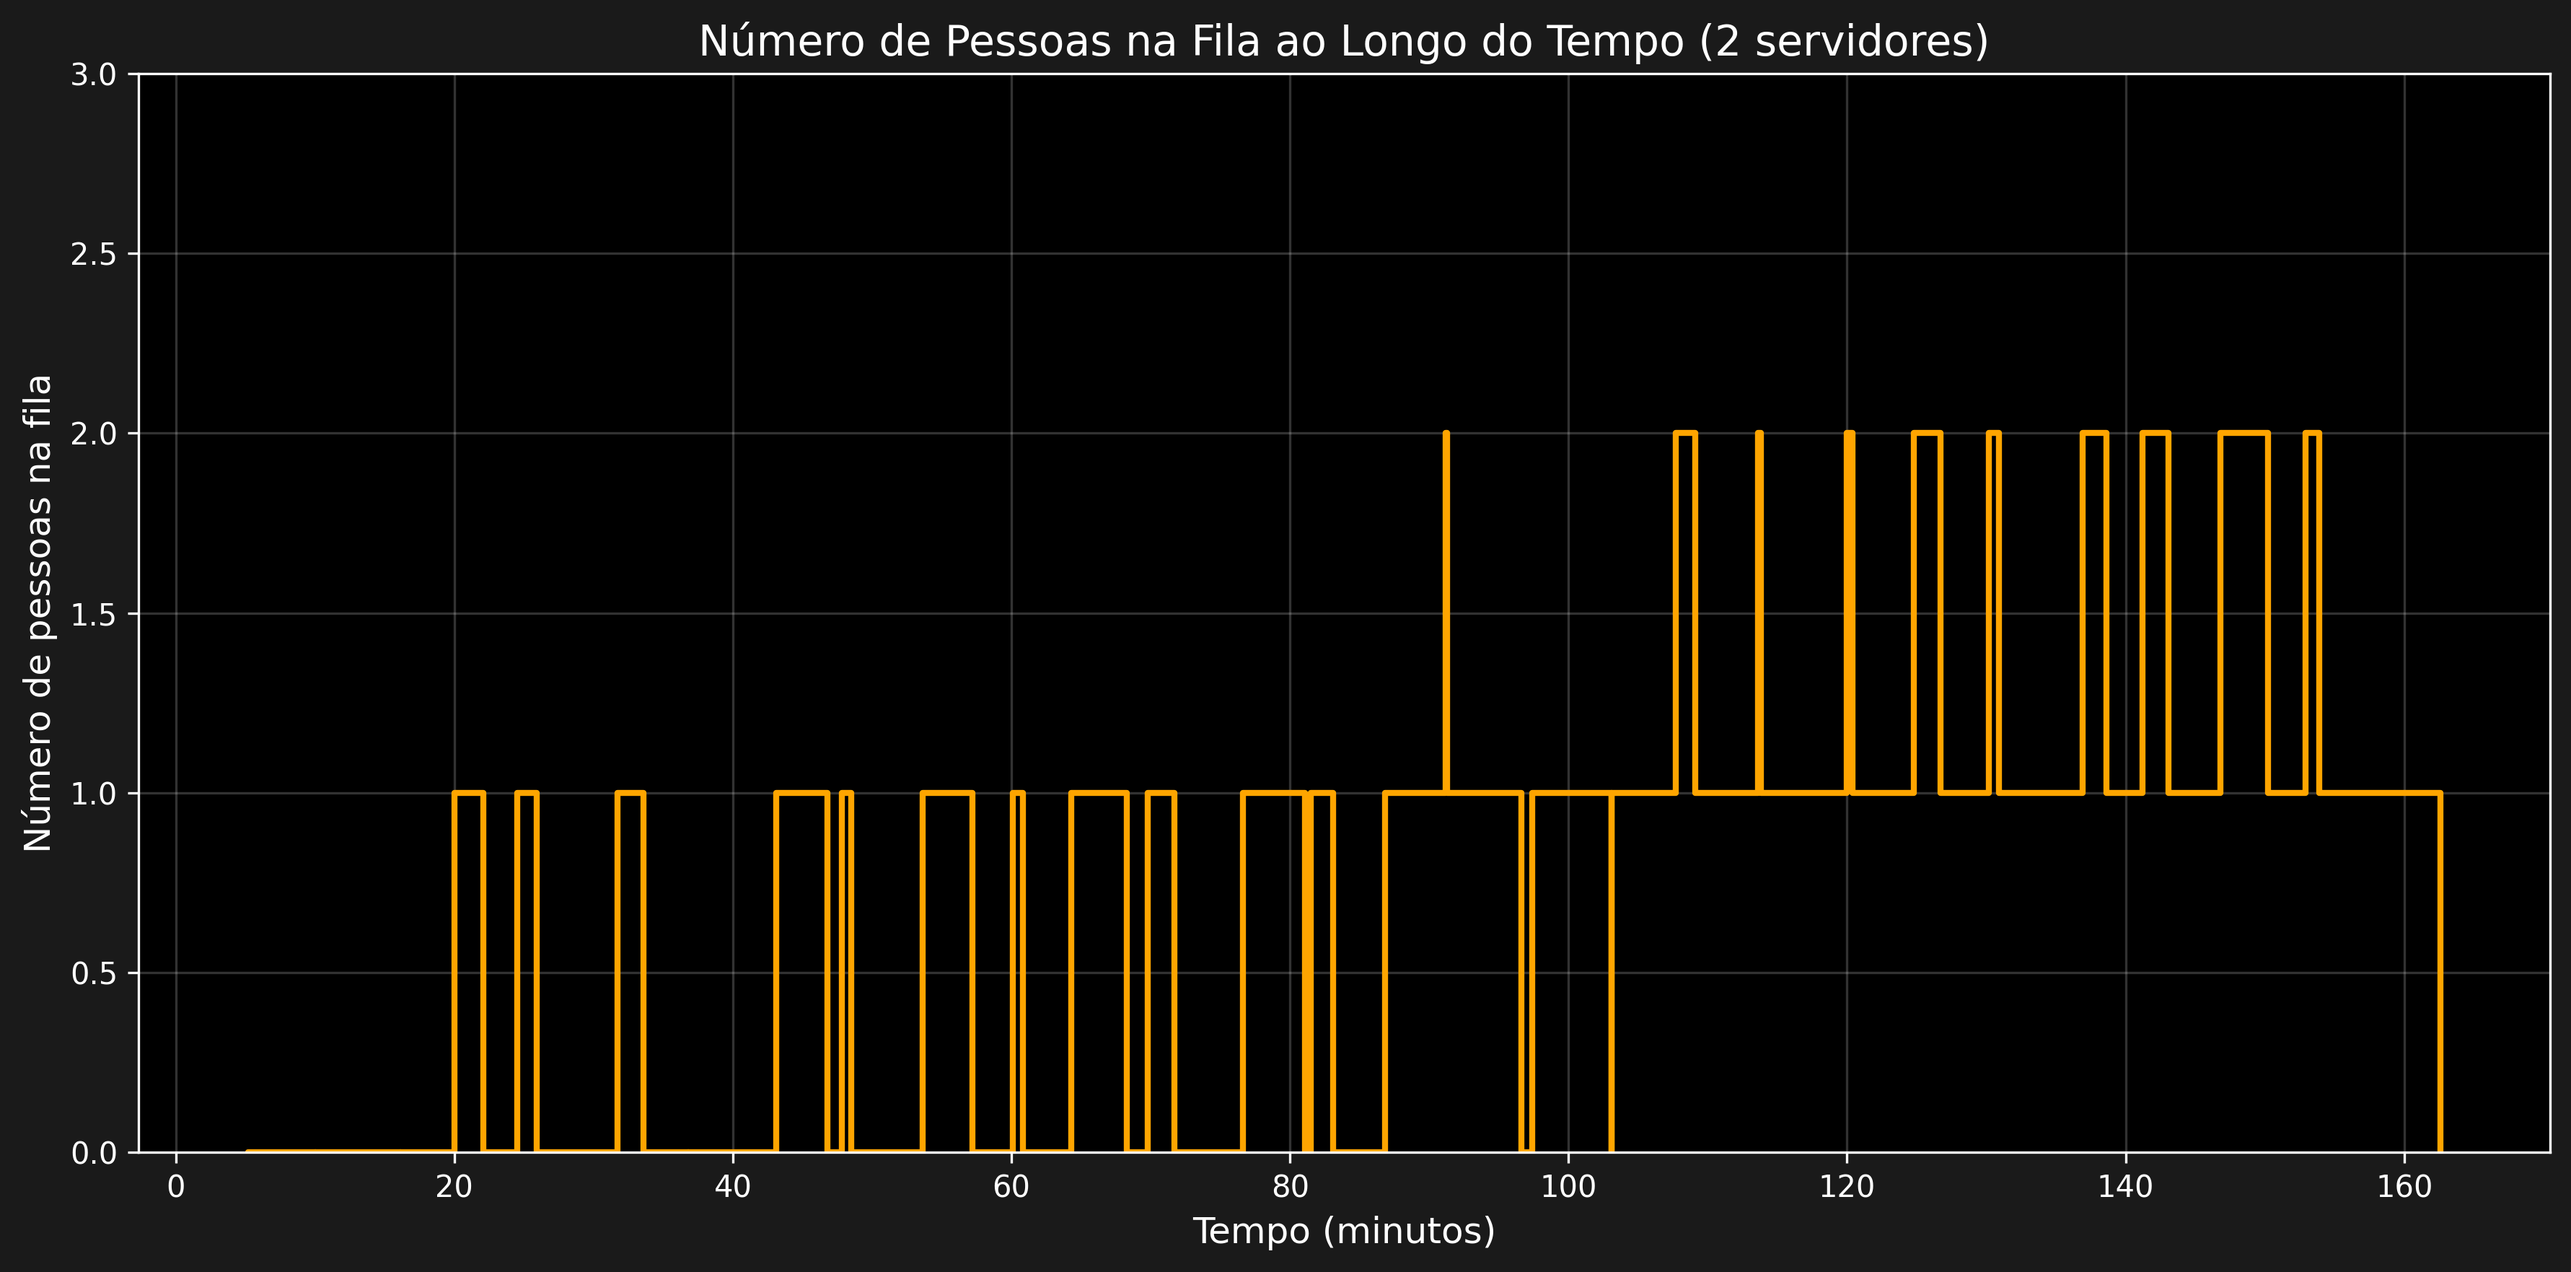
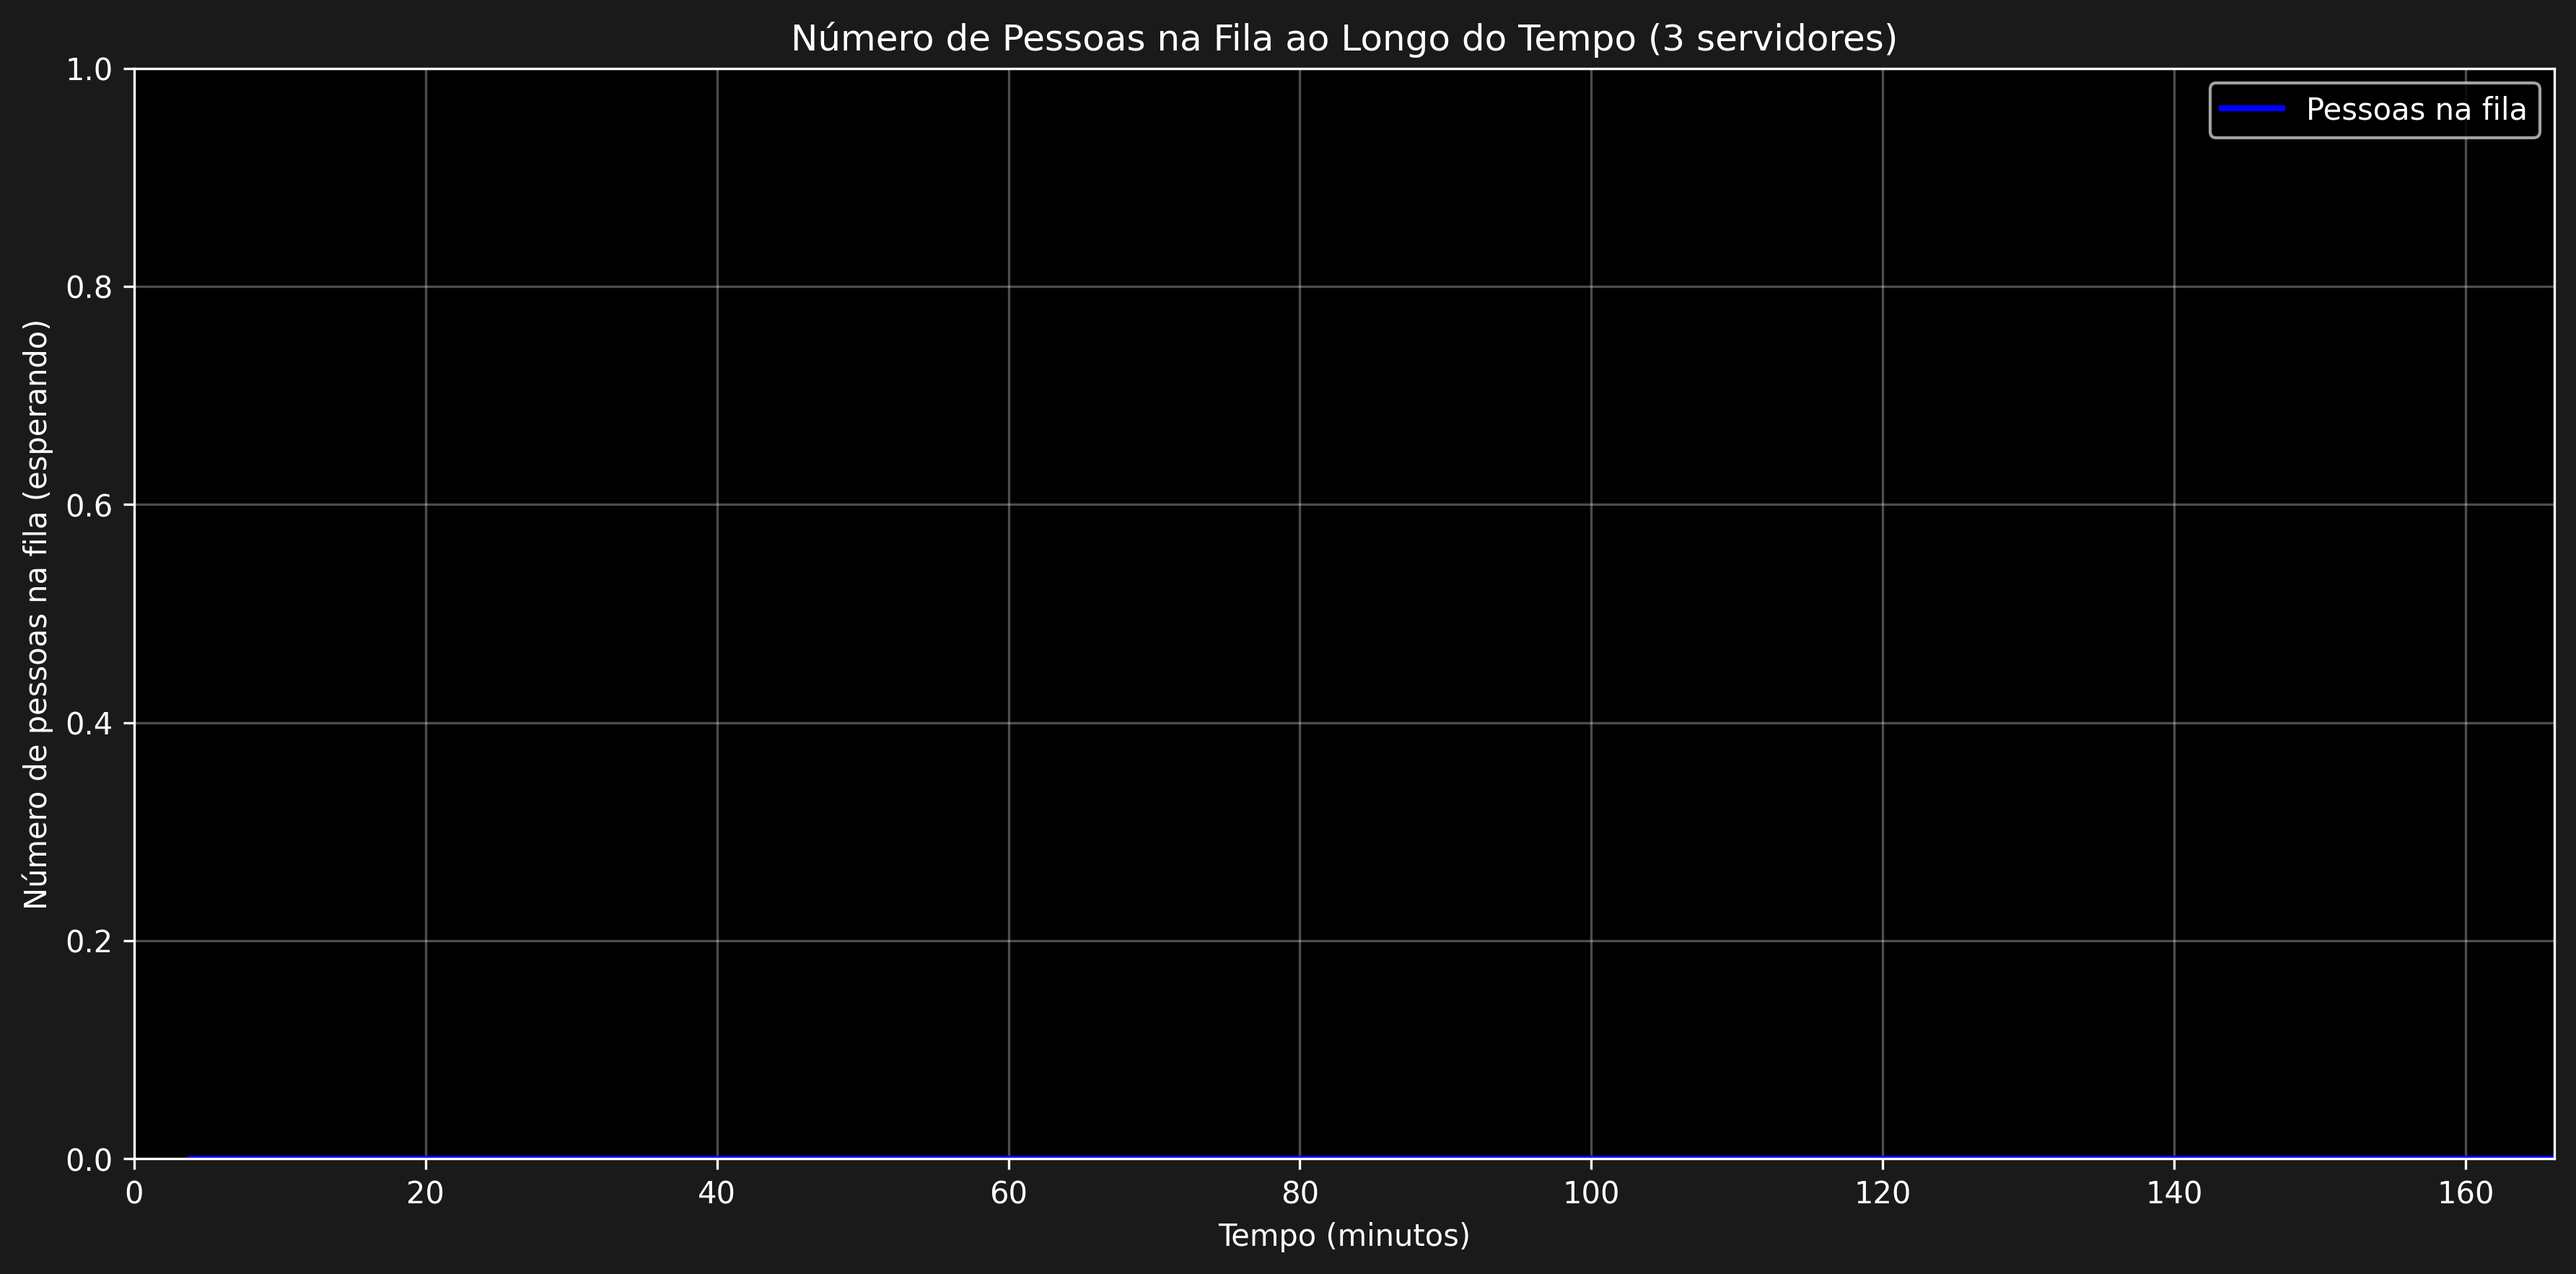
Correção do Primeiro Gráfico

diff --git a/templates/index.html b/templates/index.html
@@ -16,7 +16,7 @@
             <h2>Configurações da Simulação</h2>            <div class="config-input">
                 <div class="input-group">
                     <label for="numServidores">Número de Servidores:</label>
-                    <input type="number" id="numServidores" min="1" value="3">
+                    <input type="number" id="numServidores" min="1" value="2">
                     <label for="nivelConfianca">Nível de Confiança:</label>
                     <select id="nivelConfianca" class="select-styled">
                         <option value="0.90">90%</option>

diff --git a/static/js/main.js b/static/js/main.js
@@ -88,7 +88,7 @@ function formatarEstatisticas(estatisticas) {
     
     // Ordem específica dos títulos
     const titulosOrdenados = [
-        'Tempo entre Chegadas:',
+        'Tempo de Chegada:',
         'Tempo de Atendimento:'
     ];
     
@@ -113,7 +113,7 @@ function formatarEstatisticas(estatisticas) {
 function formatarIntervalos(intervalos) {
     // Ordem específica dos intervalos
     const titulosOrdenados = [
-        'Tempo entre Chegadas:',
+        'Tempo de Chegada:',
         'Tempo de Atendimento:'
     ];
     

diff --git a/src/models/simulacao_filas.py b/src/models/simulacao_filas.py
@@ -10,7 +10,7 @@ class SimuladorFilas:
     def __init__(self, num_servidores, arquivo_dados):
         self.num_servidores = num_servidores
         self.dados = pd.read_csv(arquivo_dados, dtype={
-            'tempo_entre_chegadas': float,
+            'tempo_de_chegada': float,
             'tempo_atendimento': float
         })
         self.fila = deque()
@@ -27,48 +27,60 @@ class SimuladorFilas:
         
     def simular(self):
         # Calcular tempos reais de chegada
-        self.dados['tempo_chegada'] = self.dados['tempo_entre_chegadas'].cumsum()
+        self.dados['tempo_chegada'] = self.dados['tempo_de_chegada'].cumsum()
         
         # Inicializar variáveis
+        n = len(self.dados)
         self.servidores = [0] * self.num_servidores
         self.historico_espera = []
         self.historico_ocupacao = []
-        self.fila_tempo = []  # Lista para eventos da fila [(tempo, mudança)]
+        tempo_total_espera = 0
         
-        for idx, cliente in self.dados.iterrows():
-            chegada = cliente['tempo_chegada']
-            atendimento = cliente['tempo_atendimento']
-            
-            # Adicionar evento de chegada na fila
-            self.fila_tempo.append((chegada, +1))
+        # Arrays para armazenar os tempos
+        self.inicio_atendimento = np.zeros(n)
+        self.fim_atendimento = np.zeros(n)
+        self.tempos_chegada = self.dados['tempo_chegada'].values
+        self.tempos_atendimento = self.dados['tempo_atendimento'].values
+        fim_servidores = [0] * self.num_servidores
+        
+        # Lista para armazenar eventos (chegada: +1, saída: -1)
+        eventos = []
+        
+        for i in range(n):
+            chegada = self.tempos_chegada[i]
+            duracao = self.tempos_atendimento[i]
             
             # Encontrar servidor que ficará livre primeiro
-            servidor_idx = min(range(self.num_servidores), key=lambda x: self.servidores[x])
-            inicio_atendimento = max(chegada, self.servidores[servidor_idx])
-            fim_atendimento = inicio_atendimento + atendimento
+            servidor_idx = min(range(self.num_servidores), key=lambda x: fim_servidores[x])
+            inicio = max(chegada, fim_servidores[servidor_idx])
+            fim = inicio + duracao
             
-            # Adicionar evento de saída da fila
-            self.fila_tempo.append((inicio_atendimento, -1))
+            # Registrar eventos de chegada e saída
+            eventos.append((chegada, 1))           # Chegada
+            eventos.append((inicio + duracao, -1)) # Saída
             
-            # Calcular tempo de espera
-            self.historico_espera.append(inicio_atendimento - chegada)
+            # Armazenar tempos
+            self.inicio_atendimento[i] = inicio
+            self.fim_atendimento[i] = fim
+            fim_servidores[servidor_idx] = fim
             
-            # Atualizar tempo de liberação do servidor
-            self.servidores[servidor_idx] = fim_atendimento
-            
-            # Registrar ocupação
-            self.historico_ocupacao.append(sum([1 for s in self.servidores if s > chegada]))
-
-        # Ordenar eventos da fila
-        self.fila_tempo.sort()
-        # Calcular tamanho da fila acumulado
-        tempos, eventos = zip(*self.fila_tempo)
-        self.historico_tempos = tempos
-        self.historico_fila = []
-        qtd = 0
-        for e in eventos:
-            qtd += e
-            self.historico_fila.append(qtd)
+            # Calcular e acumular tempo de espera
+            tempo_espera = inicio - chegada
+            tempo_total_espera += tempo_espera
+            self.historico_espera.append(tempo_total_espera)
+        
+        # Ordenar eventos por tempo
+        eventos.sort()
+        
+        # Criar timeline e calcular tamanho da fila
+        self.timeline = []
+        self.fila = []
+        pessoas_na_fila = 0
+        
+        for tempo, mudanca in eventos:
+            self.timeline.append(tempo)
+            pessoas_na_fila += mudanca
+            self.fila.append(max(0, pessoas_na_fila - self.num_servidores))
 
     def _calcular_p0(self, lambda_taxa, mu_taxa):
         rho = lambda_taxa / (self.num_servidores * mu_taxa)
@@ -89,7 +101,7 @@ class SimuladorFilas:
         return (rho * p_espera) / (1 - rho)
 
     def calcular_metricas(self):
-        lambda_taxa = 1 / self.dados['tempo_entre_chegadas'].mean()
+        lambda_taxa = 1 / self.dados['tempo_de_chegada'].mean()
         mu_taxa = 1 / self.dados['tempo_atendimento'].mean()
         rho = lambda_taxa / (self.num_servidores * mu_taxa)
 
@@ -111,37 +123,40 @@ class SimuladorFilas:
         }
     
     def gerar_graficos(self):
-        if not self.historico_fila:
+        if not hasattr(self, 'timeline'):
             self.simular()
 
         plt.style.use('dark_background')
         n = len(self.dados)
 
-        # Primeiro gráfico - Tempo de espera
+        # Primeiro gráfico - Tempo de espera por cliente
+        tempos_espera_ordenados = sorted(self.historico_espera)
         plt.figure(figsize=(12, 6))
-        plt.bar(range(1, n+1), self.historico_espera, color='skyblue')
-        plt.title('Tempo de Espera por Cliente', fontsize=14, color='white')
-        plt.xlabel('Cliente', fontsize=12, color='white')
-        plt.ylabel('Tempo de Espera (minutos)', fontsize=12, color='white')
-        plt.grid(True, alpha=0.2)
+        plt.bar(range(1, n+1), tempos_espera_ordenados, color='orange', edgecolor='black')
+        plt.title("Tempo de Espera por Cliente")
+        plt.xlabel("Cliente")
+        plt.ylabel("Tempo de Espera (minutos)")
         plt.xticks(range(1, n+1))
-        plt.ylim(bottom=0)
+        plt.grid(axis='y', linestyle='--', alpha=0.6)
         plt.tight_layout()
         plt.savefig('assets/tempo_espera.png', dpi=300, facecolor='#1a1a1a', bbox_inches='tight')
         plt.close()
 
-        # Segundo gráfico - Número de pessoas na fila
+        # Segundo gráfico - Número de pessoas na fila (esperando, para qualquer número de servidores)
         plt.figure(figsize=(12, 6))
-        plt.step(self.historico_tempos, self.historico_fila, where='post', 
-                color='orange', linewidth=2)
-        plt.title(f'Número de Pessoas na Fila ao Longo do Tempo ({self.num_servidores} servidores)', 
-                 fontsize=14, color='white')
-        plt.xlabel('Tempo (minutos)', fontsize=12, color='white')
-        plt.ylabel('Número de pessoas na fila', fontsize=12, color='white')
-        plt.grid(True, alpha=0.2)
-        plt.ylim(bottom=0)
-        max_pessoas = max(self.historico_fila)
-        plt.ylim(0, max_pessoas + 1)
+        
+        # Pegar todos os tempos de eventos (chegadas e saídas do atendimento)
+        eventos_tempo = np.sort(np.concatenate([self.tempos_chegada, self.fim_atendimento]))
+        fila = [max(0, np.sum((self.tempos_chegada <= t) & (self.fim_atendimento > t)) - self.num_servidores) for t in eventos_tempo]
+        
+        plt.step(eventos_tempo, fila, where='post', color='blue', linewidth=2, label='Pessoas na fila')
+        plt.title(f'Número de Pessoas na Fila ao Longo do Tempo ({self.num_servidores} servidores)')
+        plt.xlabel('Tempo (minutos)')
+        plt.ylabel('Número de pessoas na fila (esperando)')
+        plt.grid(True, alpha=0.3)
+        plt.legend()
+        plt.ylim(0, max(fila) + 1)
+        plt.xlim(0, max(eventos_tempo))
         plt.tight_layout()
         plt.savefig('assets/tamanho_fila.png', dpi=300, facecolor='#1a1a1a', bbox_inches='tight')
         plt.close()
@@ -157,8 +172,8 @@ class SimuladorFilas:
         ocupacoes = {i: [] for i in range(self.num_servidores)}
 
         for i, cliente in enumerate(self.dados.itertuples()):
-            tempo_atual += cliente.tempo_entre_chegadas
-            duracao = cliente.tempo_atendimento
+            tempo_atual += float(cliente.tempo_de_chegada)
+            duracao = float(cliente.tempo_atendimento)
 
             if self.historico_espera[i] == 0:
                 servidor = min(range(self.num_servidores), key=lambda x: fim_servidores[x])

diff --git a/src/services/analise_estatistica.py b/src/services/analise_estatistica.py
@@ -8,7 +8,7 @@ from scipy import stats
 class AnalisadorEstatistico:
     def __init__(self, arquivo_dados):
         self.dados = pd.read_csv(arquivo_dados, dtype={
-            'tempo_entre_chegadas': float,
+            'tempo_de_chegada': float,
             'tempo_atendimento': float
         })
         
@@ -16,7 +16,7 @@ class AnalisadorEstatistico:
         estatisticas = {}
         
         nomes = {
-            'tempo_entre_chegadas': 'Tempo entre Chegadas:',
+            'tempo_de_chegada': 'Tempo de Chegada:',
             'tempo_atendimento': 'Tempo de Atendimento:'
         }
         
@@ -59,9 +59,9 @@ class AnalisadorEstatistico:
         # Forçar valores inteiros no eixo y
         ax1.yaxis.set_major_locator(plt.MaxNLocator(integer=True))
         
-        # Histograma do tempo entre chegadas
-        ax2.hist(self.dados['tempo_entre_chegadas'], bins=20, color='#e74c3c', alpha=0.7)
-        ax2.set_title('Distribuição do Tempo entre Chegadas', fontsize=14, color='white')
+        # Histograma do tempo de chegada
+        ax2.hist(self.dados['tempo_de_chegada'], bins=20, color='#e74c3c', alpha=0.7)
+        ax2.set_title('Distribuição do Tempo de Chegada', fontsize=14, color='white')
         ax2.set_xlabel('Tempo (min)', fontsize=12, color='white')
         ax2.set_ylabel('Frequência', fontsize=12, color='white')
         ax2.grid(True, alpha=0.2)
@@ -74,8 +74,8 @@ class AnalisadorEstatistico:
         
         # Criar figura separada para o boxplot
         plt.figure(figsize=(12, 6))
-        plt.boxplot([self.dados['tempo_entre_chegadas'], self.dados['tempo_atendimento']], 
-                   labels=['Tempo entre Chegadas', 'Tempo de Atendimento'],
+        plt.boxplot([self.dados['tempo_de_chegada'], self.dados['tempo_atendimento']], 
+                   labels=['Tempo de Chegada', 'Tempo de Atendimento'],
                    patch_artist=True,
                    boxprops=dict(facecolor='#2ecc71', color='white', alpha=0.7),
                    whiskerprops=dict(color='white'),
@@ -86,7 +86,7 @@ class AnalisadorEstatistico:
         plt.grid(True, alpha=0.2)
         
         # Configurar eixo y com intervalos de 1 em 1
-        max_valor = max(self.dados['tempo_atendimento'].max(), self.dados['tempo_entre_chegadas'].max())
+        max_valor = max(self.dados['tempo_atendimento'].max(), self.dados['tempo_de_chegada'].max())
         plt.yticks(np.arange(0, max_valor + 1, 1))
         
         plt.tight_layout(pad=3.0)
@@ -98,7 +98,7 @@ class AnalisadorEstatistico:
         intervalos = {}
         z_critico = stats.norm.ppf((1 + confianca) / 2)
         
-        for coluna, nome in {'tempo_entre_chegadas': 'Tempo entre Chegadas:', 
+        for coluna, nome in {'tempo_de_chegada': 'Tempo de Chegada:', 
                             'tempo_atendimento': 'Tempo de Atendimento:'}.items():
             dados = self.dados[coluna]
             media = dados.mean()

diff --git a/src/main.py b/src/main.py
@@ -59,7 +59,7 @@ def generate_results_csv(metricas, estatisticas, intervalos_confianca):
     df.to_csv(filepath, index=False, encoding='utf-8-sig')
     return filename
 
-def main(num_servidores=3, nivel_confianca=0.95):
+def main(num_servidores=2, nivel_confianca=0.95):
     assets_dir = os.path.abspath(os.path.join(os.path.dirname(__file__), '..', 'assets'))
     ARQUIVO_DADOS = os.path.join(assets_dir, 'dados_atendimento.csv')
     
@@ -86,7 +86,7 @@ def index():
 
 @app.route('/simular', methods=['POST'])
 def simular():
-    num_servidores = request.json.get('numServidores', 3)
+    num_servidores = request.json.get('numServidores', 2)
     nivel_confianca = request.json.get('nivelConfianca', 0.95)
     metricas, estatisticas, intervalos_confianca, csv_filename = main(num_servidores, nivel_confianca)
     return jsonify({
